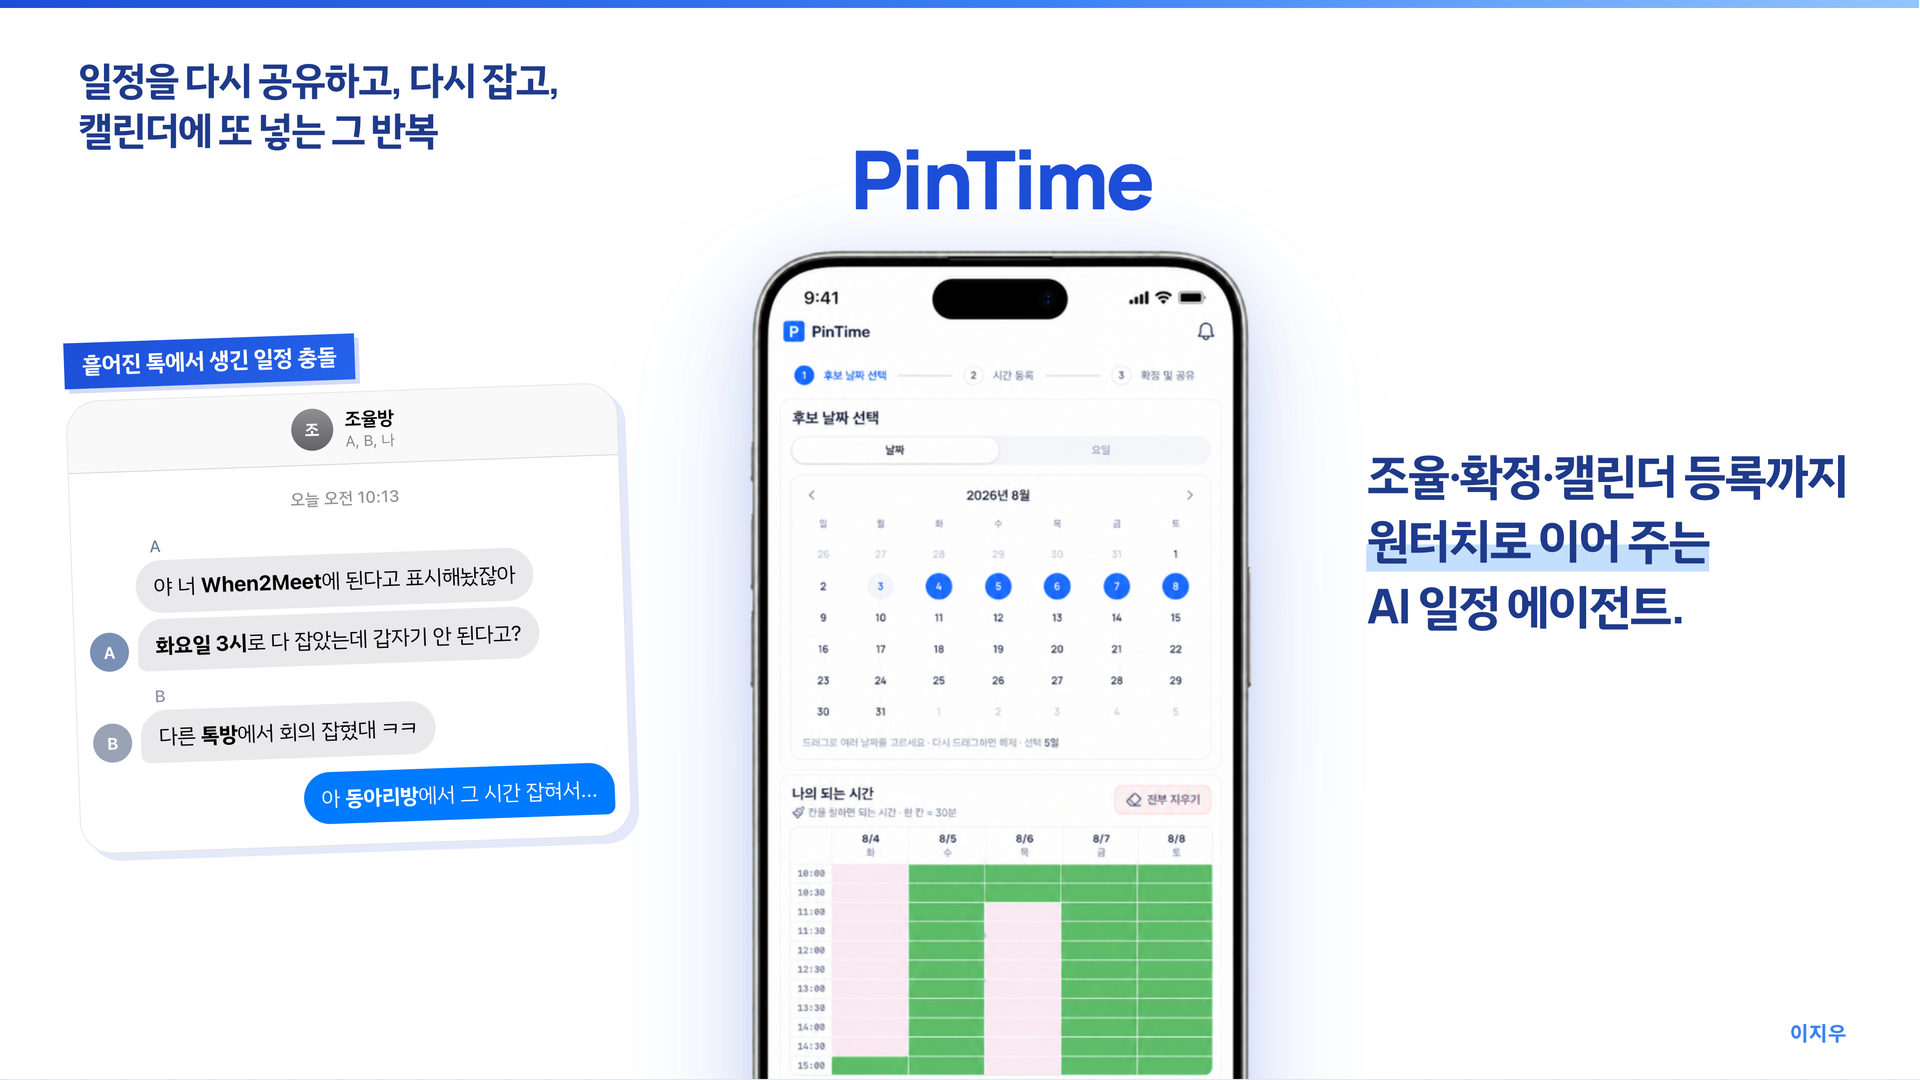
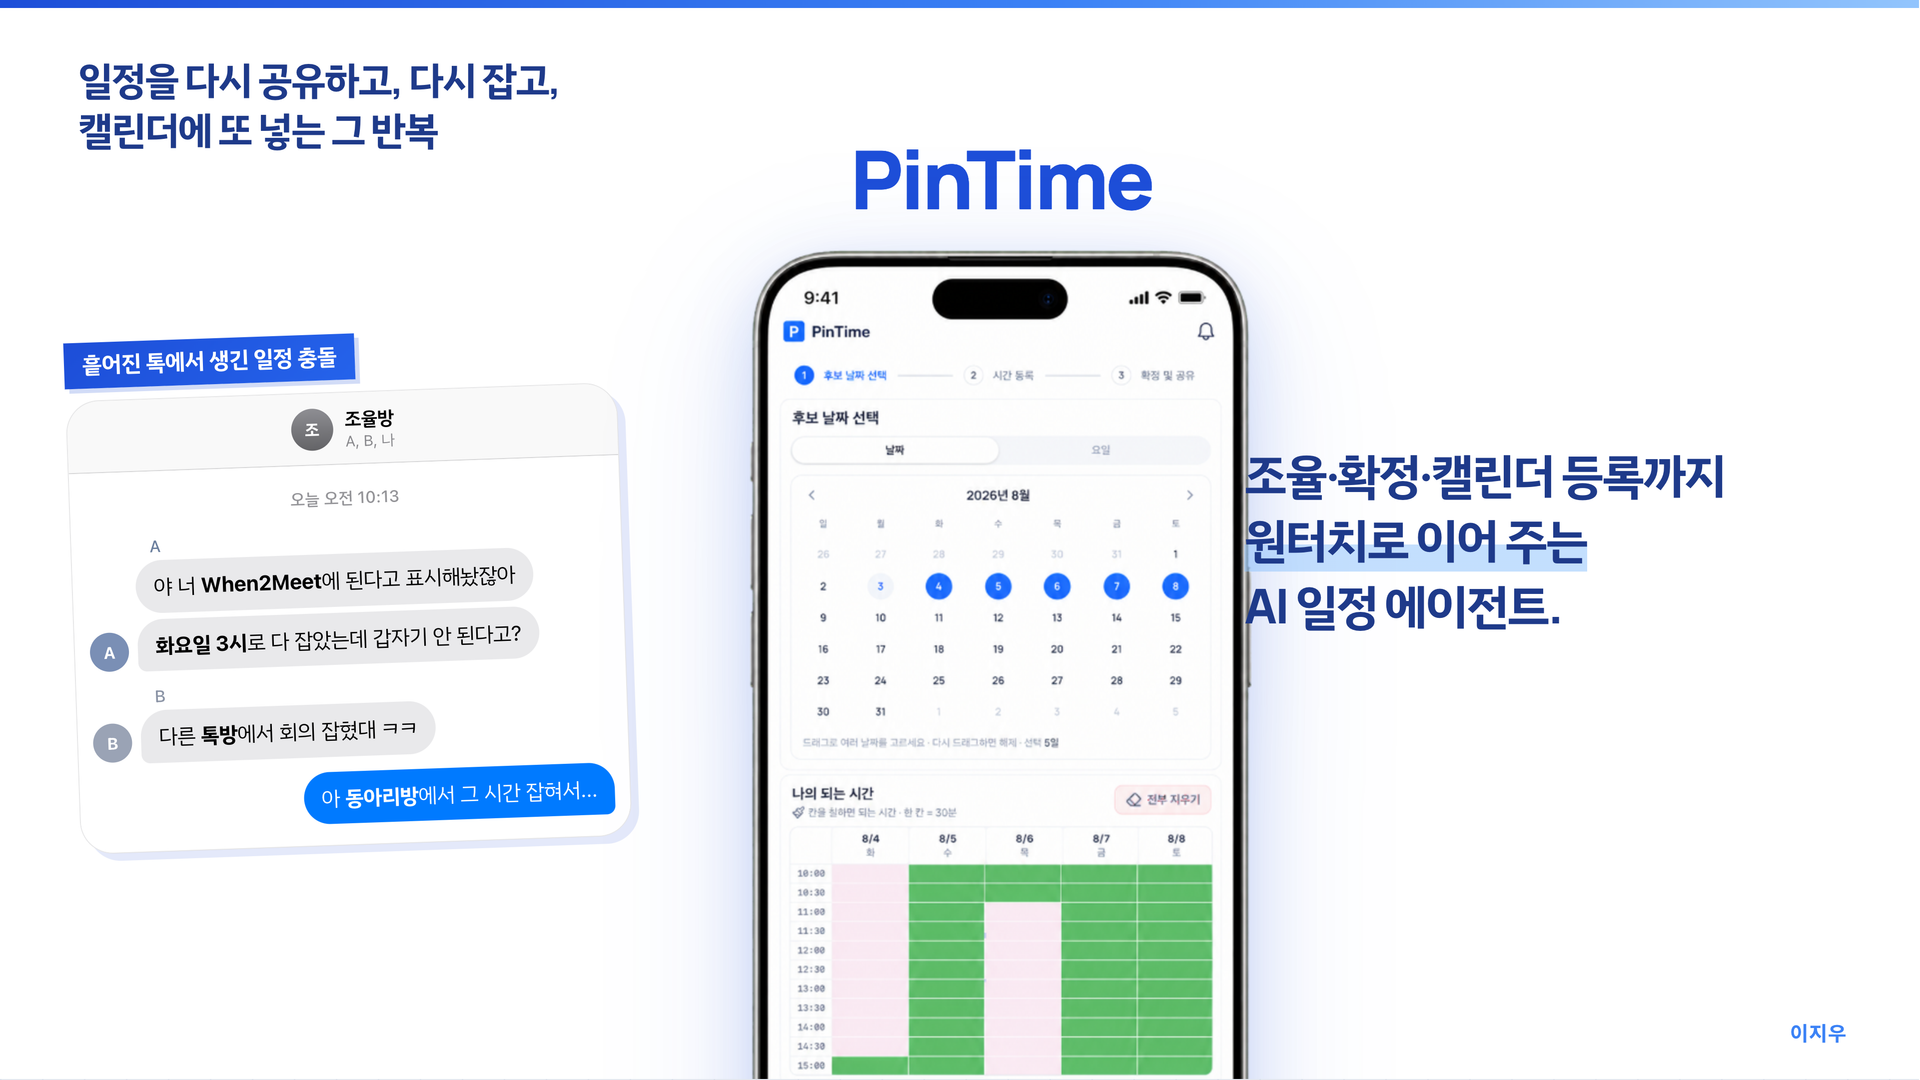
Pull cover tagline closer to the phone.

Changed region(s): [[0.625, 0.3972, 0.9688, 0.5806]]

diff --git a/public/pitch.html b/public/pitch.html
@@ -1489,7 +1489,7 @@
       .cover-tagline {
         position: absolute;
         top: 50%;
-        right: 0.5in;
+        right: 1.35in;
         transform: translateY(-50%);
         margin: 0;
         max-width: 5.4in;
